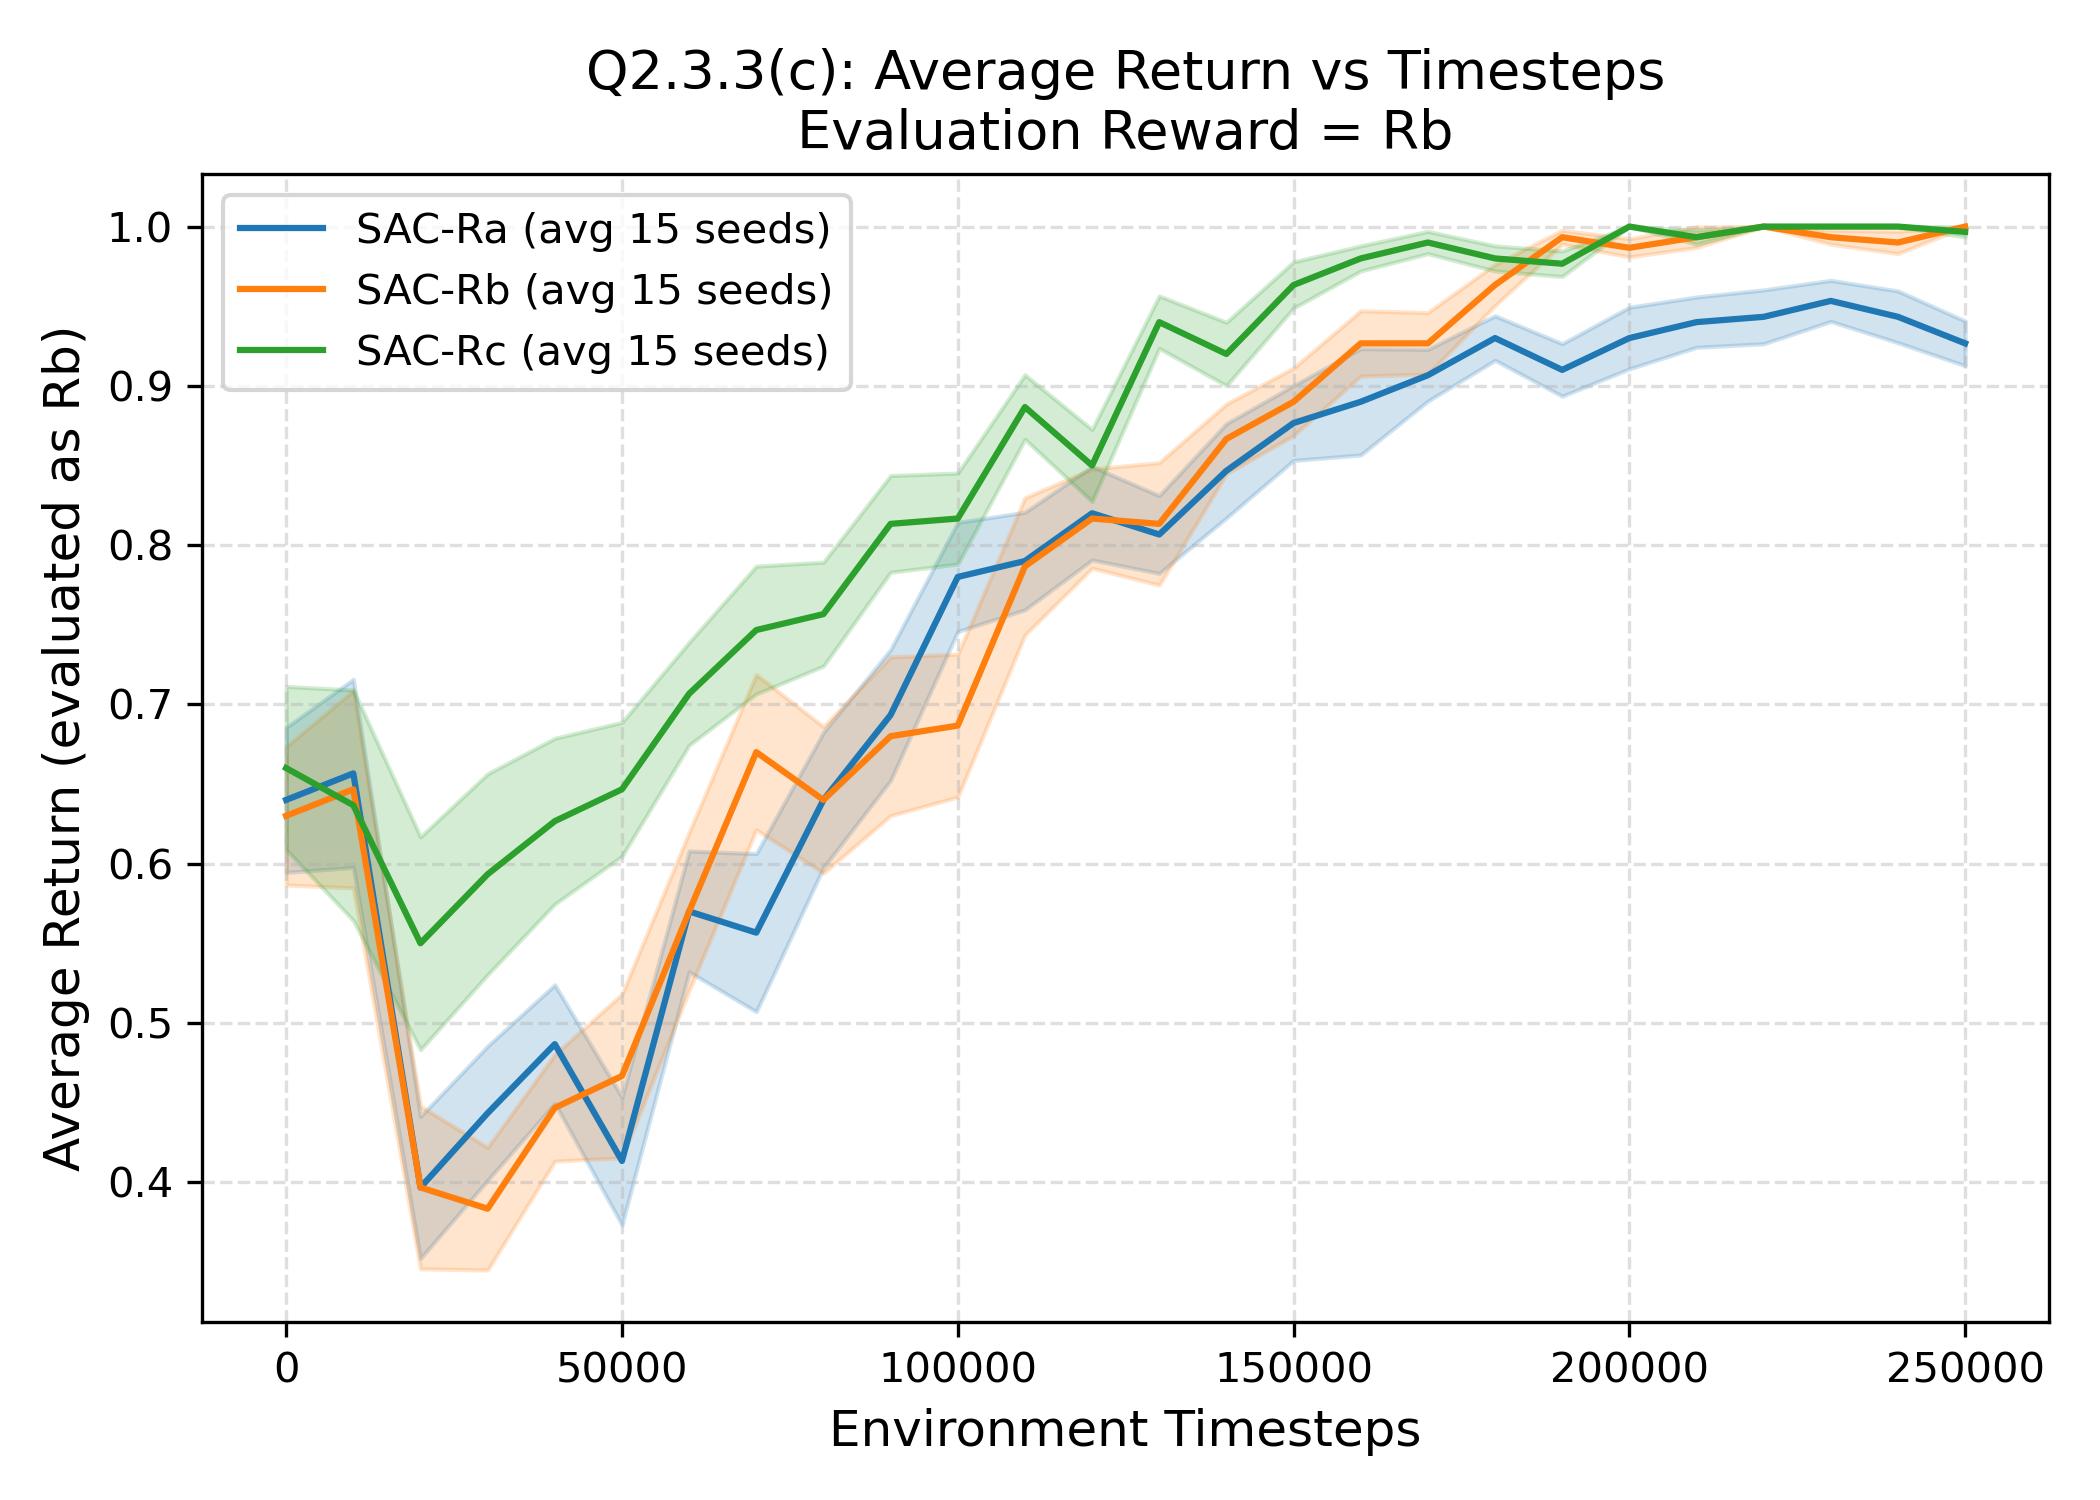
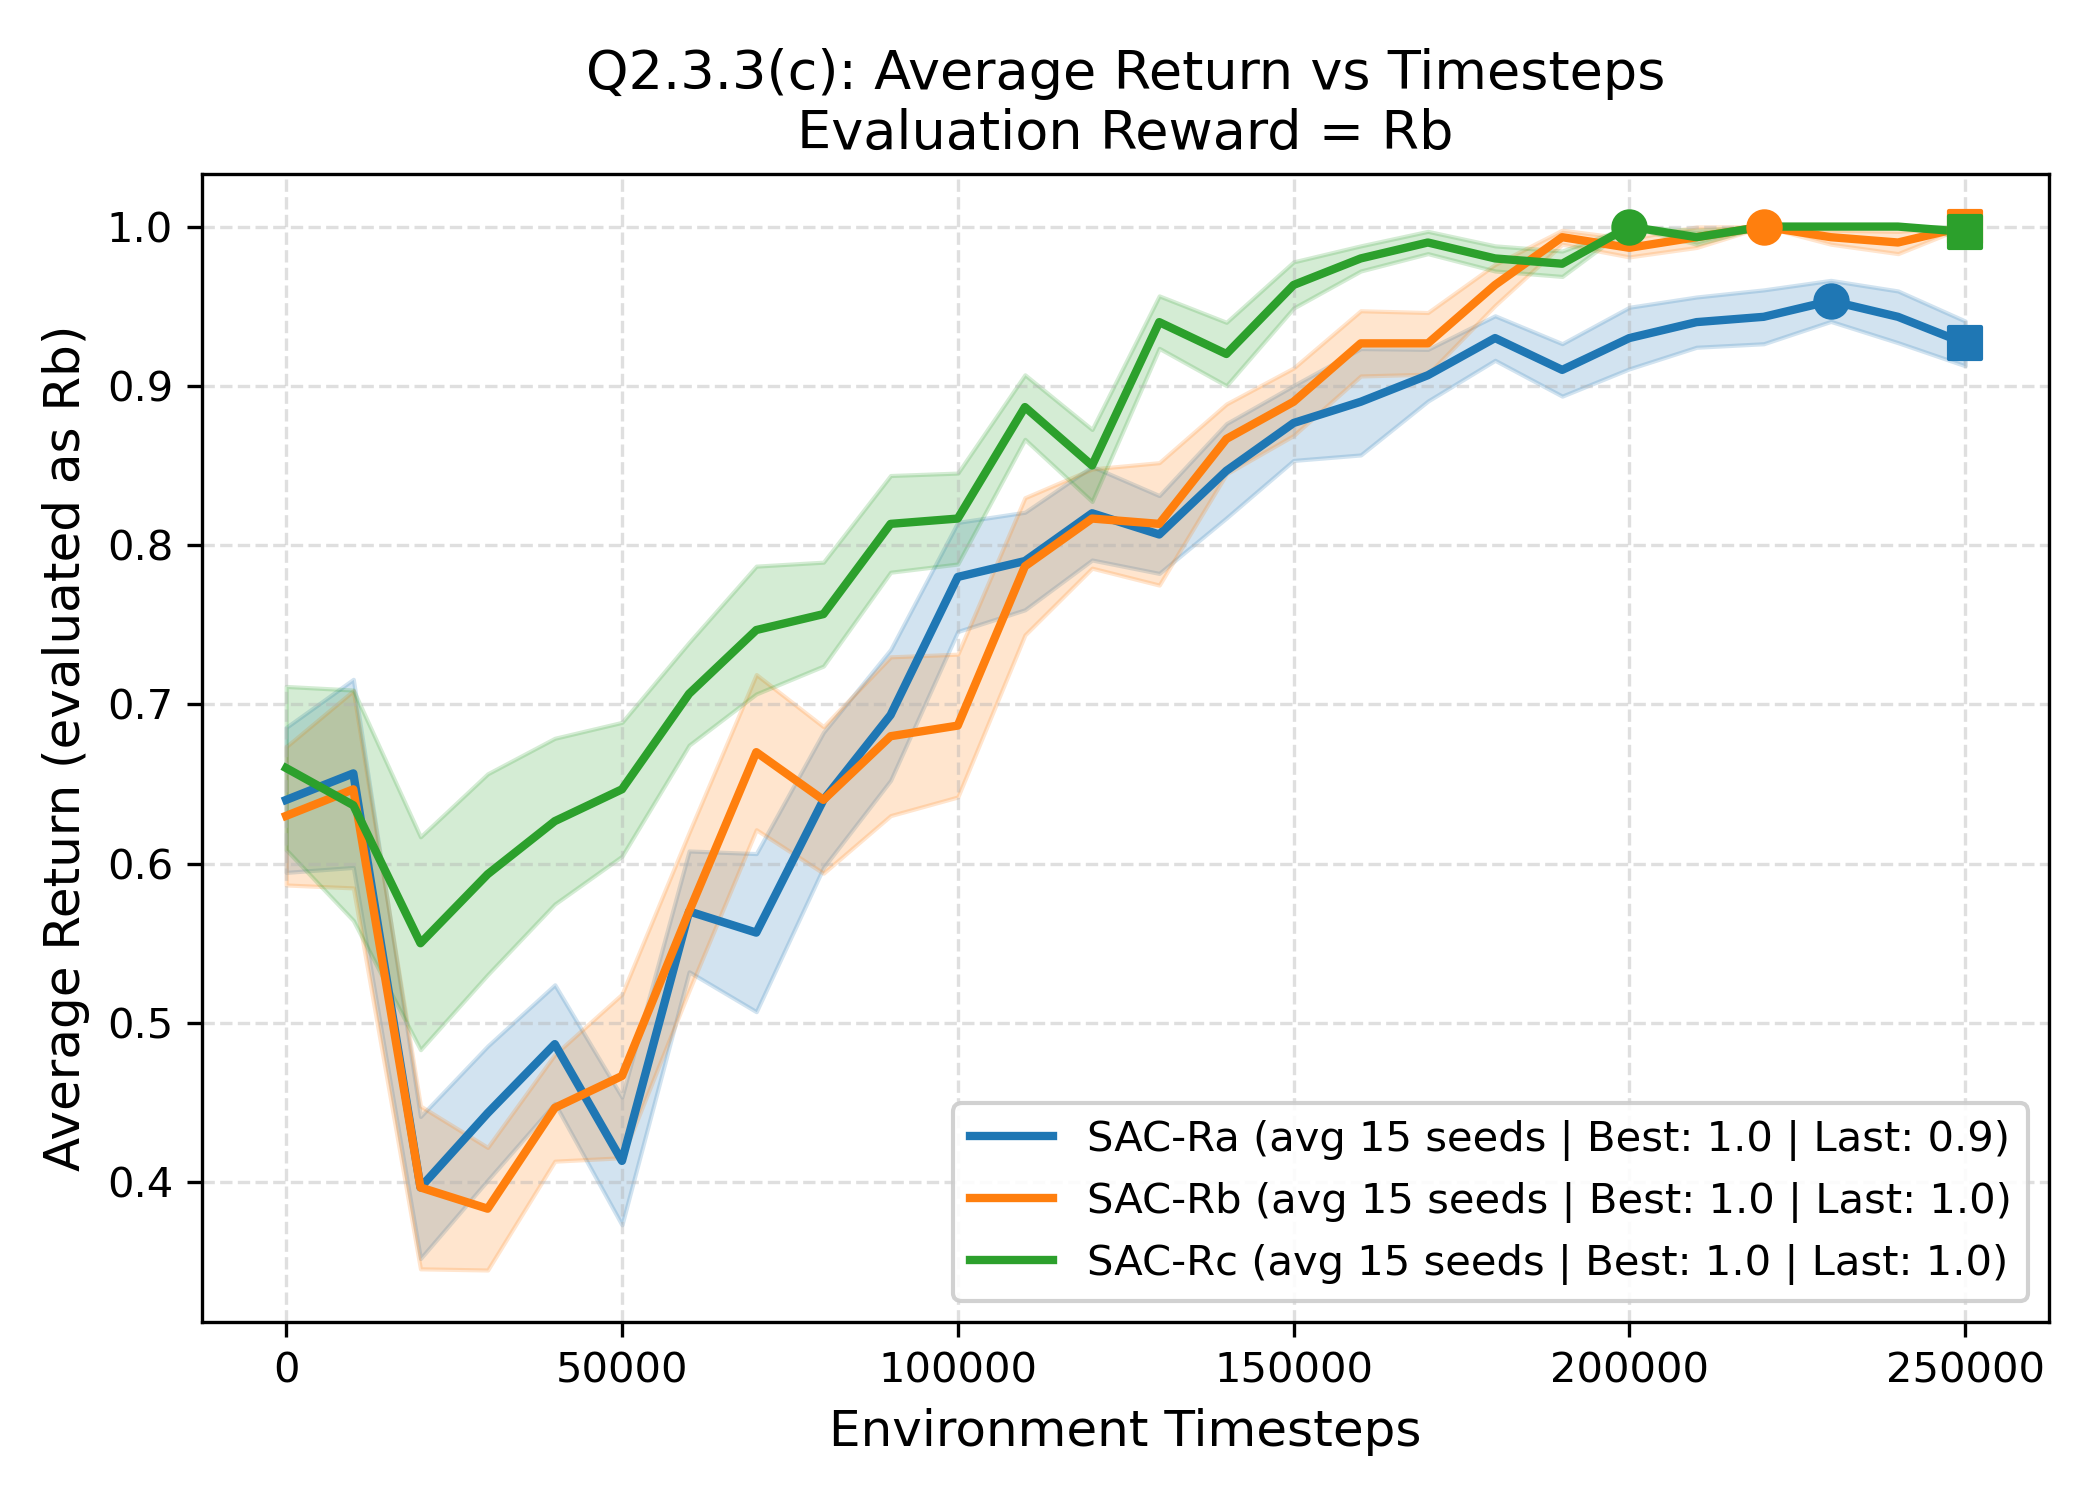
best last plotting fix

diff --git a/Assignment_3/plotting/plot_pendulum.py b/Assignment_3/plotting/plot_pendulum.py
@@ -1,79 +1,118 @@
+# plotting/plot_cross_compare.py
+
 import os
 import glob
 import numpy as np
 import matplotlib.pyplot as plt
+import pandas as pd
 
-def load_runs(theta):
-    files = glob.glob(f"logs/auto/pendulum_theta{theta}_seed*.csv")
+LOG_DIR = os.path.join("logs", "reacher")
+PLOTS_DIR = "plots"
 
-    runs = []
-    steps = None
+os.makedirs(PLOTS_DIR, exist_ok=True)
+
+TRAIN_REWARDS = ["Ra", "Rb", "Rc"]
+EVAL_REWARDS = ["Ra", "Rb", "Rc"]
+COLORS = {"Ra": "tab:blue", "Rb": "tab:orange", "Rc": "tab:green"}
+
+
+def load_runs(train_reward, eval_reward):
+    """
+    Load all CSV logs for a given training reward formulation, and pick
+    the column corresponding to the evaluation reward.
+
+    Expected filename pattern:
+        logs/reacher/reacher_easy_<train_reward>_seed*.csv
+
+    Expected columns (example for Ra-training):
+        step, return_Ra, return_Rb, return_Rc
+    """
+    pattern = os.path.join(LOG_DIR, f"reacher_easy_{train_reward}_seed*.csv")
+    files = sorted(glob.glob(pattern))
+    if not files:
+        raise FileNotFoundError(f"No logs found for pattern {pattern}")
+
+    col_name = f"return_{eval_reward}"
+
+    all_steps = []
+    all_returns = []
 
     for f in files:
-        data = np.loadtxt(f, delimiter=",", skiprows=1)
-        data = np.atleast_2d(data)
+        df = pd.read_csv(f)
+        df = df.sort_values("step")
+        if col_name not in df.columns:
+            raise KeyError(f"{col_name} not found in {f}")
+        all_steps.append(df["step"].to_numpy())
+        all_returns.append(df[col_name].to_numpy())
 
-        if steps is None:
-            steps = data[:, 0]   # actual steps from file
+    steps = all_steps[0]
+    returns = np.stack(all_returns, axis=0)  # [num_seeds, num_steps]
+    mean = returns.mean(axis=0)
+    stderr = returns.std(axis=0) / np.sqrt(returns.shape[0])
 
-        runs.append(data[:, 1])  # returns
+    return steps, mean, stderr, len(files)
 
-    return steps, np.array(runs)
 
-def plot_all():
-    cwd = os.getcwd()
-    save_dir = os.path.join(cwd,'plots')
-    targets = [0,-10,30, -60, 90, -90, 120, -150]
+def plot_for_eval_reward(eval_reward):
+    """
+    For a fixed evaluation reward R_i, plot curves for agents trained with
+    Ra, Rb, Rc, using the corresponding return_Ri column.
+    """
+    plt.figure(figsize=(7, 5))
 
-    plt.figure(figsize=(10, 6))
+    for train_reward in TRAIN_REWARDS:
+        try:
+            steps, mean_ret, stderr_ret, n_seeds = load_runs(
+                train_reward, eval_reward
+            )
+        except (FileNotFoundError, KeyError) as e:
+            print(e)
+            continue
 
-    for theta in targets:
-        steps, runs = load_runs(theta)
-
-        # --- Skip the first evaluation point (Step 0) ---
-        # This removes the massive initial negative reward from the plot scale
-        steps = steps[1:]
-        
-        runs = runs[:, 1:]
-
-        mean = runs.mean(axis=0)
-        std = runs.std(axis=0)
-        ci = std / np.sqrt(runs.shape[0])
-
-        # Get best and last values
-        best_idx = np.argmax(mean)
+        # Best / last stats
+        best_idx = np.argmax(mean_ret)
         best_step = steps[best_idx]
-        best_value = mean[best_idx]
+        best_value = mean_ret[best_idx]
 
         last_step = steps[-1]
-        last_value = mean[-1]
+        last_value = mean_ret[-1]
 
-        # Format the legend label to include Best and Last cleanly
-        label_text = f"θ={theta} (Best: {best_value:.1f} | Last: {last_value:.1f})"
+        label = (
+            f"SAC-{train_reward} (avg {n_seeds} seeds | "
+            f"Best: {best_value:.1f} | Last: {last_value:.1f})"
+        )
+        color = COLORS[train_reward]
 
-        # Plot line and grab its color
-        line, = plt.plot(steps, mean, label=label_text, linewidth=2)
-        color = line.get_color()
+        # Line + CI
+        line, = plt.plot(steps, mean_ret, label=label, color=color, linewidth=2)
+        plt.fill_between(
+            steps,
+            mean_ret - stderr_ret,
+            mean_ret + stderr_ret,
+            color=color,
+            alpha=0.2,
+        )
 
-        # Plot confidence interval
-        plt.fill_between(steps, mean - ci, mean + ci, alpha=0.2, color=color)
-
-        # Plot markers for Best (circle) and Last (square) without floating text
-        plt.scatter(best_step, best_value, color=color, marker='o', s=60, zorder=5)
-        plt.scatter(last_step, last_value, color=color, marker='s', s=60, zorder=5)
+        # Markers for Best (circle) and Last (square)
+        plt.scatter(best_step, best_value, color=color, marker="o", s=60, zorder=5)
+        plt.scatter(last_step, last_value, color=color, marker="s", s=60, zorder=5)
 
     plt.xlabel("Environment Timesteps", fontsize=12)
-    plt.ylabel("Average Undiscounted Return", fontsize=12)
-    plt.title("SAC Performance: Pendulum-v1", fontsize=14)
-    
-    # Place the legend cleanly in the bottom right corner
-    plt.legend(loc="lower right", fontsize=11, framealpha=0.9)
-    plt.grid(True, linestyle='--', alpha=0.7)
-    
+    plt.ylabel(f"Average Return (evaluated as {eval_reward})", fontsize=12)
+    plt.title(
+        f"Q2.3.3(c): Average Return vs Timesteps\nEvaluation Reward = {eval_reward}",
+        fontsize=13,
+    )
+    plt.grid(True, linestyle="--", alpha=0.4)
+    plt.legend(loc="best", framealpha=0.9, fontsize=10)
     plt.tight_layout()
-    # Saves a high-res image for your assignment submission
-    plt.savefig(os.path.join(save_dir,"sac_pendulum_plot.png"), dpi=300) 
-    plt.show()
+
+    out_path = os.path.join(PLOTS_DIR, f"cross_compare_eval_{eval_reward}.png")
+    plt.savefig(out_path, dpi=300)
+    print(f"Saved {out_path}")
+    plt.close()
+
 
 if __name__ == "__main__":
-    plot_all()
+    for eval_reward in EVAL_REWARDS:
+        plot_for_eval_reward(eval_reward)

diff --git a/Assignment_3/plotting/plot_manual_auto.py b/Assignment_3/plotting/plot_manual_auto.py
@@ -60,9 +60,20 @@ def plot_q5b():
             
             mean_m = runs_m.mean(axis=0)
             ci_m = runs_m.std(axis=0) / np.sqrt(runs_m.shape[0])
+            best_idx_m = np.argmax(mean_m)
+            best_step_m = steps_m[best_idx_m]
+            best_value_m = mean_m[best_idx_m]
+            last_step_m = steps_m[-1]
+            last_value_m = mean_m[-1]
             
-            line_m, = ax.plot(steps_m, mean_m, label=f"Manual α = {best_alpha}", linewidth=2, color='red')
+            label_m = (
+                f"Manual α = {best_alpha} | "
+                f"Best: {best_value_m:.1f} | Last: {last_value_m:.1f}"
+            )
+            line_m, = ax.plot(steps_m, mean_m, label=label_m, linewidth=2, color='red')
             ax.fill_between(steps_m, mean_m - ci_m, mean_m + ci_m, alpha=0.2, color='red')
+            ax.scatter(best_step_m, best_value_m, color='red', marker="o", s=55, zorder=5)
+            ax.scatter(last_step_m, last_value_m, color='red', marker="s", s=55, zorder=5)
 
         # 2. Load and plot AUTOMATED tuning data (Blue)
         steps_a, runs_a = load_runs("auto", scale)
@@ -72,9 +83,20 @@ def plot_q5b():
             
             mean_a = runs_a.mean(axis=0)
             ci_a = runs_a.std(axis=0) / np.sqrt(runs_a.shape[0])
+            best_idx_a = np.argmax(mean_a)
+            best_step_a = steps_a[best_idx_a]
+            best_value_a = mean_a[best_idx_a]
+            last_step_a = steps_a[-1]
+            last_value_a = mean_a[-1]
             
-            line_a, = ax.plot(steps_a, mean_a, label="Auto-Tuned α", linewidth=2, color='blue')
+            label_a = (
+                f"Auto-Tuned α | "
+                f"Best: {best_value_a:.1f} | Last: {last_value_a:.1f}"
+            )
+            line_a, = ax.plot(steps_a, mean_a, label=label_a, linewidth=2, color='blue')
             ax.fill_between(steps_a, mean_a - ci_a, mean_a + ci_a, alpha=0.2, color='blue')
+            ax.scatter(best_step_a, best_value_a, color='blue', marker="o", s=55, zorder=5)
+            ax.scatter(last_step_a, last_value_a, color='blue', marker="s", s=55, zorder=5)
             
         ax.set_title(f"Reward Scale: {scale}x", fontsize=14, fontweight='bold')
         ax.set_xlabel("Environment Timesteps", fontsize=12)

diff --git a/Assignment_3/plotting/plot_cross_compare.py b/Assignment_3/plotting/plot_cross_compare.py
@@ -69,10 +69,19 @@ def plot_for_eval_reward(eval_reward):
             print(e)
             continue
 
-        label = f"SAC-{train_reward} (avg {n_seeds} seeds)"
+        best_idx = np.argmax(mean_ret)
+        best_step = steps[best_idx]
+        best_value = mean_ret[best_idx]
+        last_step = steps[-1]
+        last_value = mean_ret[-1]
+
+        label = (
+            f"SAC-{train_reward} (avg {n_seeds} seeds | "
+            f"Best: {best_value:.1f} | Last: {last_value:.1f})"
+        )
         color = COLORS[train_reward]
 
-        plt.plot(steps, mean_ret, label=label, color=color)
+        plt.plot(steps, mean_ret, label=label, color=color, linewidth=2)
         plt.fill_between(
             steps,
             mean_ret - stderr_ret,
@@ -80,15 +89,17 @@ def plot_for_eval_reward(eval_reward):
             color=color,
             alpha=0.2,
         )
+        plt.scatter(best_step, best_value, color=color, marker="o", s=60, zorder=5)
+        plt.scatter(last_step, last_value, color=color, marker="s", s=60, zorder=5)
 
     plt.xlabel("Environment Timesteps", fontsize=12)
-    plt.ylabel(f"Average Return (evaluated as R{eval_reward[-1]})", fontsize=12)
+    plt.ylabel(f"Average Return (evaluated as {eval_reward})", fontsize=12)
     plt.title(
         f"Q2.3.3(c): Average Return vs Timesteps\nEvaluation Reward = {eval_reward}",
         fontsize=13,
     )
     plt.grid(True, linestyle="--", alpha=0.4)
-    plt.legend()
+    plt.legend(loc="best", framealpha=0.9, fontsize=10)
     plt.tight_layout()
 
     out_path = os.path.join(PLOTS_DIR, f"cross_compare_eval_{eval_reward}.png")

diff --git a/Assignment_3/plotting/plot_pendulum_manual.py b/Assignment_3/plotting/plot_pendulum_manual.py
@@ -5,7 +5,7 @@ import matplotlib.pyplot as plt
 
 def load_runs(theta, alpha):
     # Updated pattern to look inside the specific mode subfolder
-    search_pattern = f"logs/manual_a{alpha}/*theta{theta}_seed*.csv"
+    search_pattern = f"logs/pendulum/manual_a{alpha}/*theta{theta}_seed*.csv"
     files = glob.glob(search_pattern)
 
     runs = []
@@ -51,10 +51,23 @@ def plot_q5a():
             std = runs.std(axis=0)
             ci = std / np.sqrt(runs.shape[0])  # standard error
             
-            # Plot the line and confidence interval
-            line, = ax.plot(steps, mean, label=f"α = {alpha}", linewidth=2)
+            best_idx = np.argmax(mean)
+            best_step = steps[best_idx]
+            best_value = mean[best_idx]
+            last_step = steps[-1]
+            last_value = mean[-1]
+
+            label = (
+                f"α = {alpha} | "
+                f"Best: {best_value:.1f} | Last: {last_value:.1f}"
+            )
+
+            # Plot the line, confidence interval, and best/last markers
+            line, = ax.plot(steps, mean, label=label, linewidth=2)
             color = line.get_color()
             ax.fill_between(steps, mean - ci, mean + ci, alpha=0.2, color=color)
+            ax.scatter(best_step, best_value, color=color, marker="o", s=45, zorder=5)
+            ax.scatter(last_step, last_value, color=color, marker="s", s=45, zorder=5)
             
         ax.set_title(f"Target Angle: θ = {theta}°", fontsize=14, fontweight='bold')
         ax.set_xlabel("Environment Timesteps", fontsize=12)
